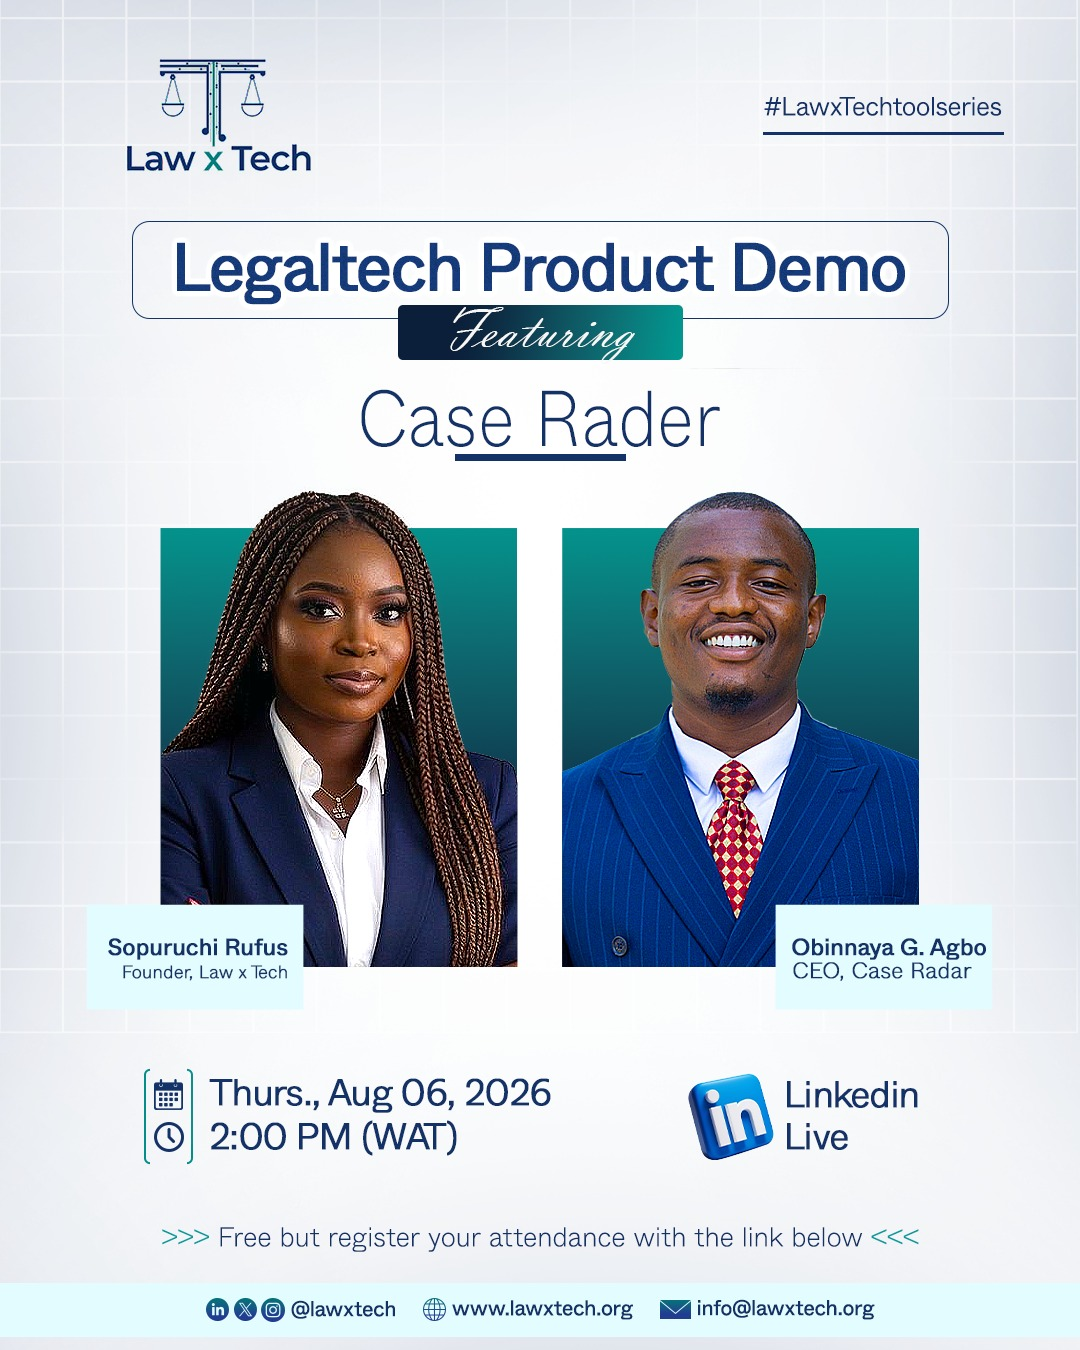
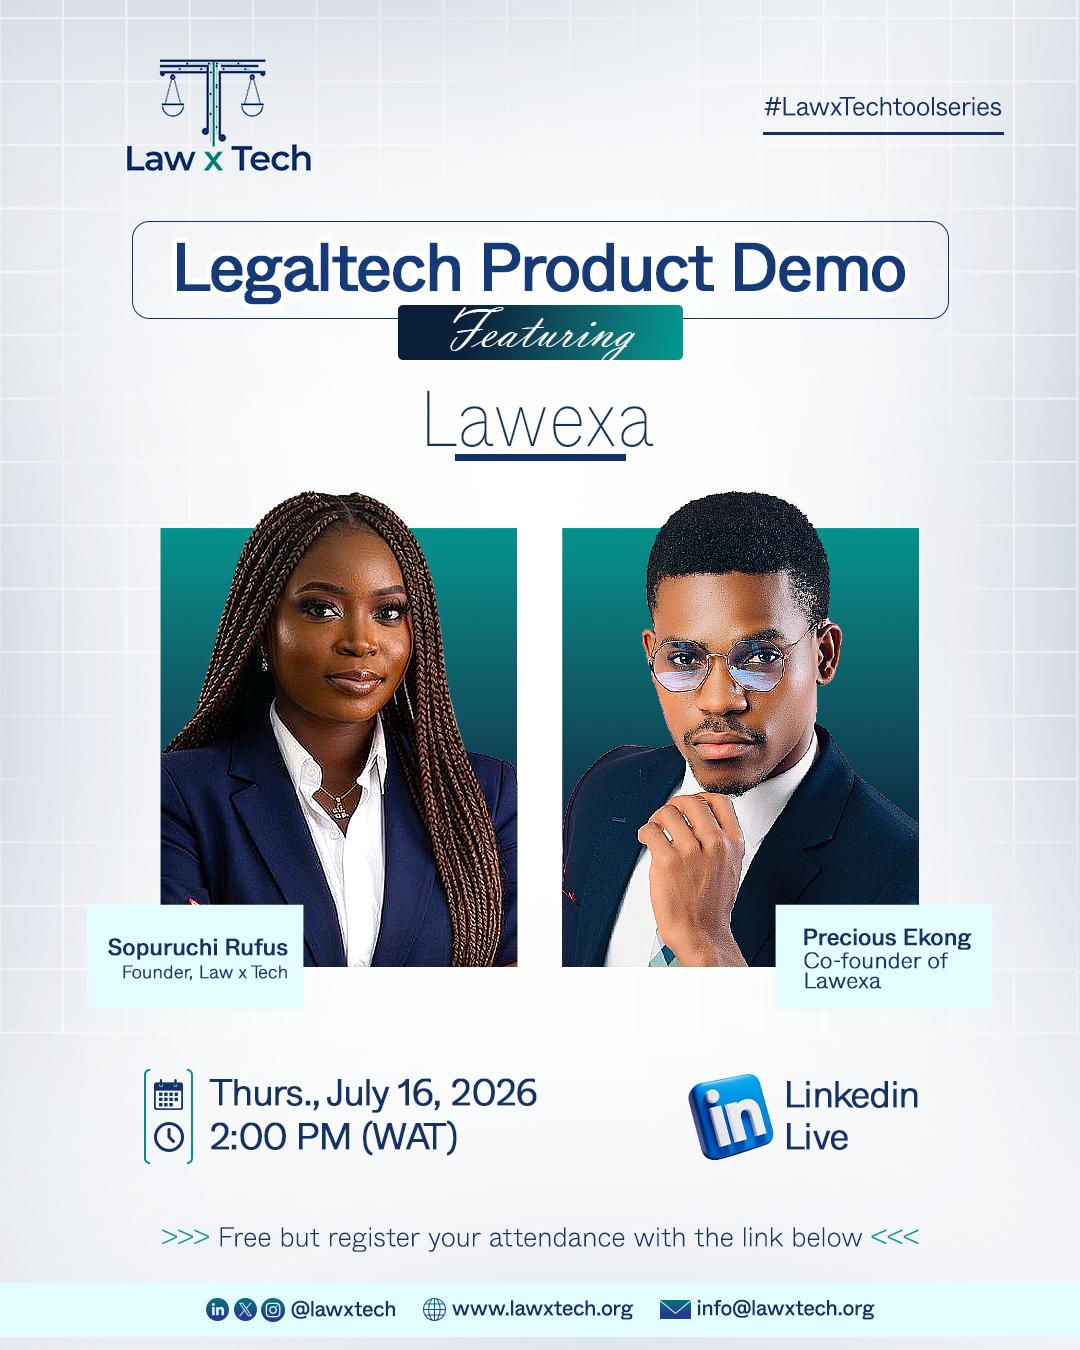
feat(series): insert July 16 mini series episode and renumber
Adds the new episode as Mini Series 6 and shifts the two existing
link-out episodes to 7 and 8 so the mini series stays ordered by date.

Changed region(s): [[0.5194, 0.3422, 0.9167, 0.7467], [0.3361, 0.28, 0.6417, 0.3422], [0.3056, 0.7778, 0.5194, 0.84]]

diff --git a/components/series/SeriesClient.tsx b/components/series/SeriesClient.tsx
@@ -13,17 +13,17 @@ const mainSeries = Array.from({ length: 8 }, (_, i) => ({
   href: undefined as string | undefined,
 }));
 
-const miniSeries = Array.from({ length: 7 }, (_, i) => ({
+const miniSeries = Array.from({ length: 8 }, (_, i) => ({
   id: i + 1,
   src: `/assets/series/Mini Series ${i + 1}.jpeg`,
   title: `Mini Series ${i + 1}`,
   href: undefined as string | undefined,
 }));
 
-miniSeries[5].href =
+miniSeries[6].href =
   "https://www.linkedin.com/posts/lawxtech-legaltech-share-7490646769970774016-tEU5";
 
-miniSeries[6].href =
+miniSeries[7].href =
   "https://www.linkedin.com/posts/law-x-tech_from-law2tech-conversations-are-back-activity-7492835895079772174-ocKS";
 
 const WEBINAR_REMINDER_URL =
